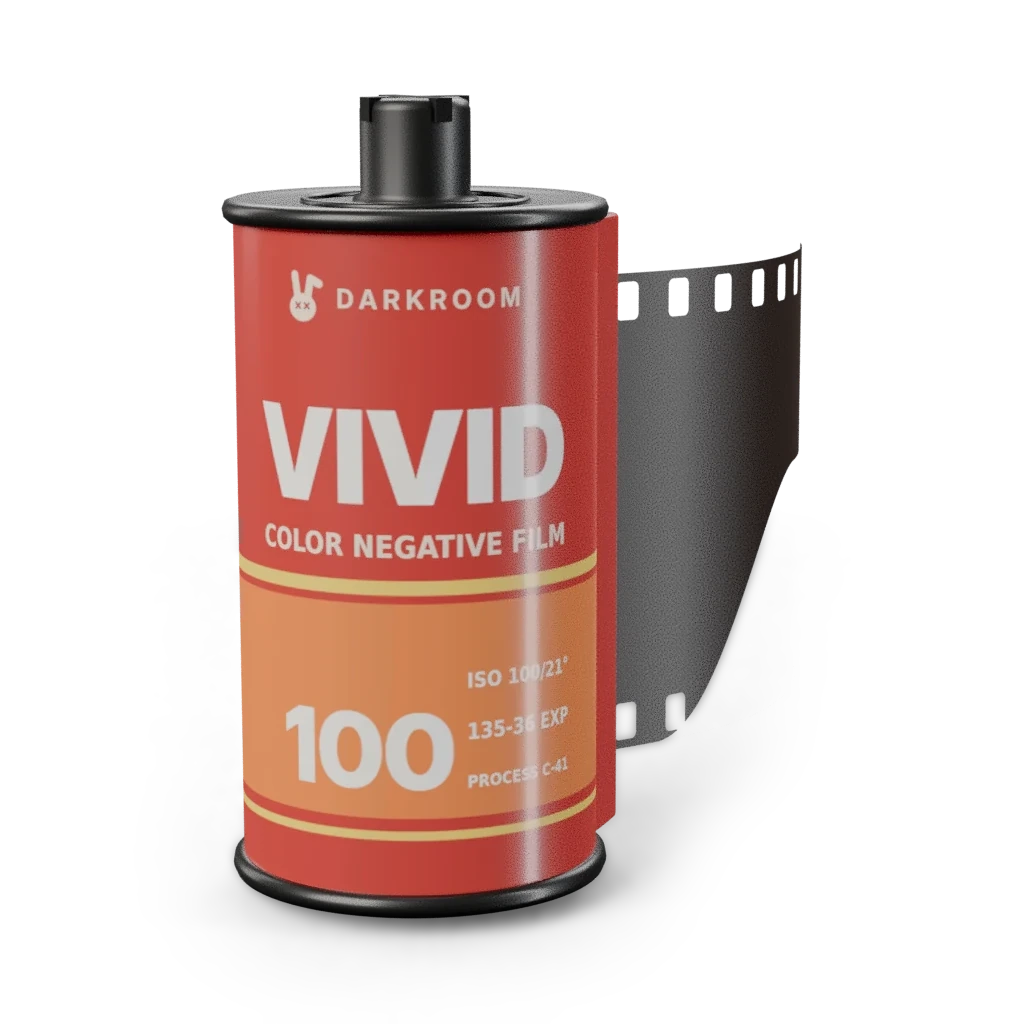
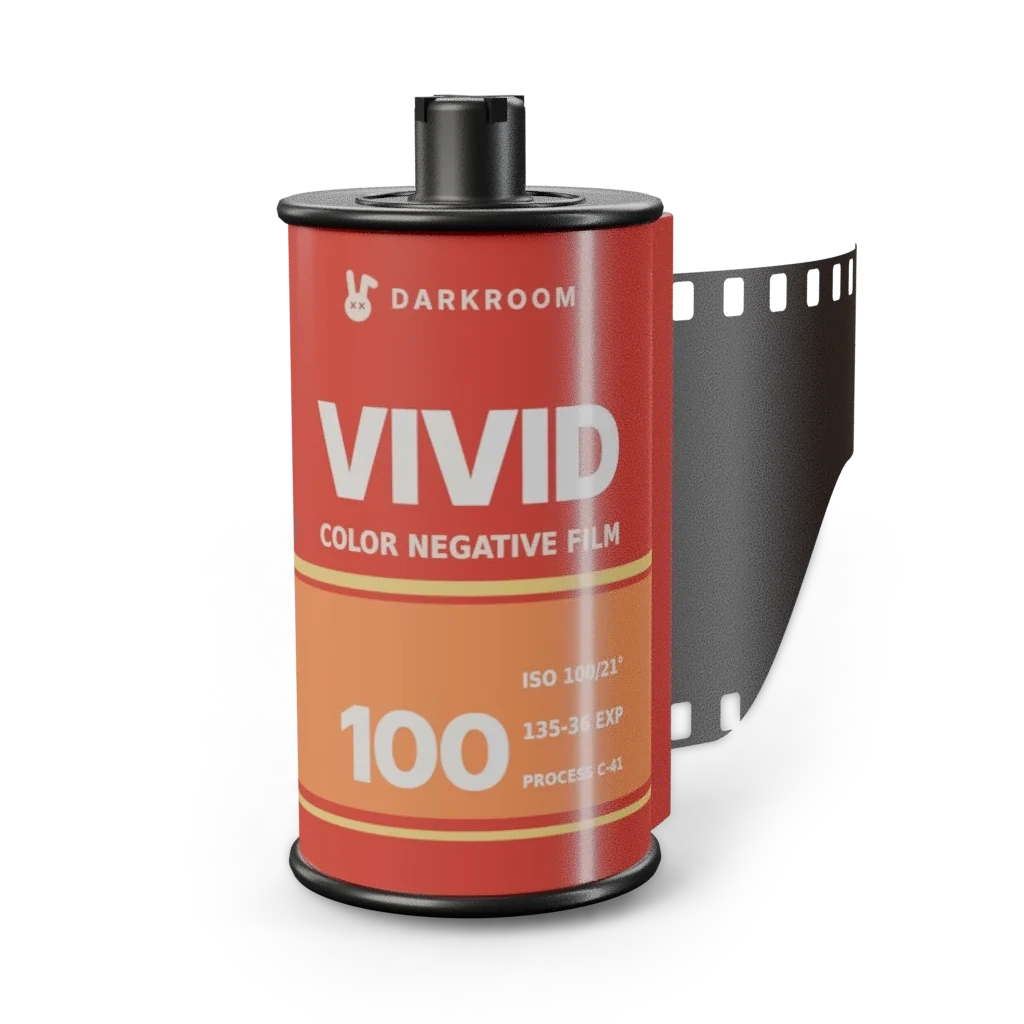
Draft 1.7.12: film rolls centred on the canister; carousel neighbours prebuilt

Changed region(s): [[0.2188, 0.0938, 0.8438, 0.9375]]

diff --git a/lib/features/cameras/presentation/stock_selector_screen.dart b/lib/features/cameras/presentation/stock_selector_screen.dart
@@ -375,6 +375,10 @@ class _StockSelectorScreenState extends ConsumerState<StockSelectorScreen> {
                               height: itemH,
                               child: PageView.builder(
                                 controller: _pages,
+                                // build the next item before its slot shows: the
+                                // neighbours are drawn pulled in (see _Item), so
+                                // they'd pop in half visible otherwise
+                                allowImplicitScrolling: true,
                                 physics: const _ExternalDragPhysics(),
                                 itemCount: _specs.length,
                                 onPageChanged: _select,

diff --git a/lib/core/app_info.dart b/lib/core/app_info.dart
@@ -3,13 +3,12 @@ class AppInfo {
   const AppInfo._();
 
   static const name = 'Darkroom';
-  static const version = '1.7.11';
+  static const version = '1.7.12';
   static const build = '1998.10.05';
 
   /// What changed in this build, in plain words: Google Play's "What's new"
   /// (tool/play/whats_new.py). Replace it every build.
-  static const latest =
-      'Carousel: more of the neighbouring films and cameras show, and the film boxes sit centred.';
+  static const latest = 'Carousel: film rolls centred on the canister, and neighbours no longer pop in half drawn.';
 
   /// Help > About: the main ideas of each version, a few words each.
   static const revisions = <(String, List<String>)>[

diff --git a/docs/CHANGELOG.md b/docs/CHANGELOG.md
@@ -1065,3 +1065,6 @@ for from 2026-10-28 (reminder set for 2026-10-29).
 - [x] **55.8** Carousel: neighbours pulled a third of a page toward the
   middle (more of them shows in portrait); the 35mm box art (and instant)
   was ~3% left of centre in its image: recentred the .webp files.
+- [x] **55.9** 35mm art moved another 55 px right (centred nearer the
+  canister than the film tail); carousel builds the next item early
+  (`allowImplicitScrolling`) so pulled-in neighbours don't pop in.
